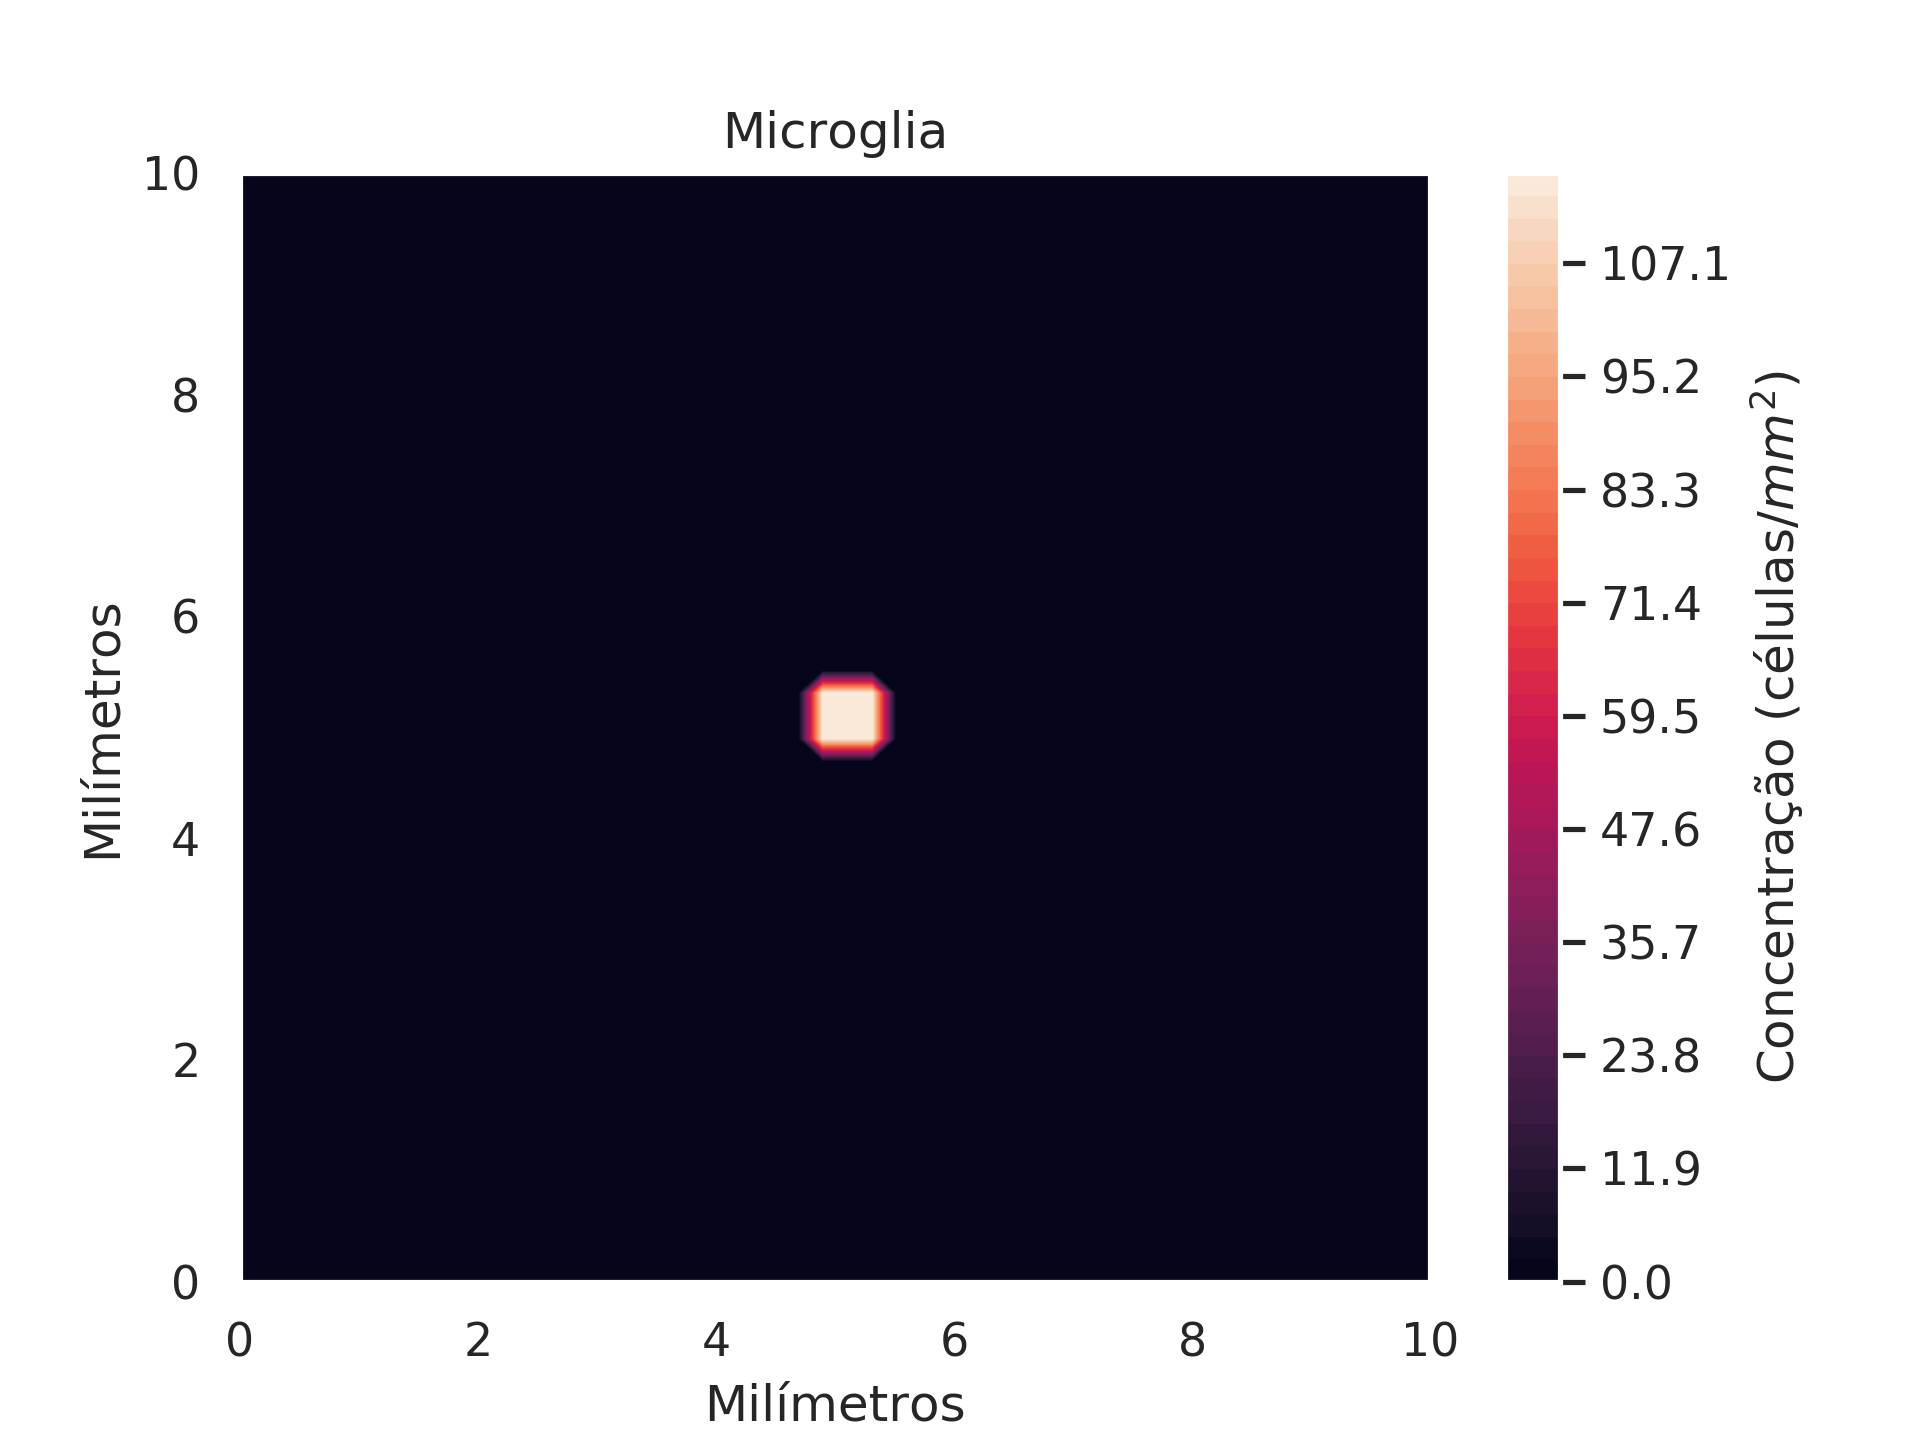
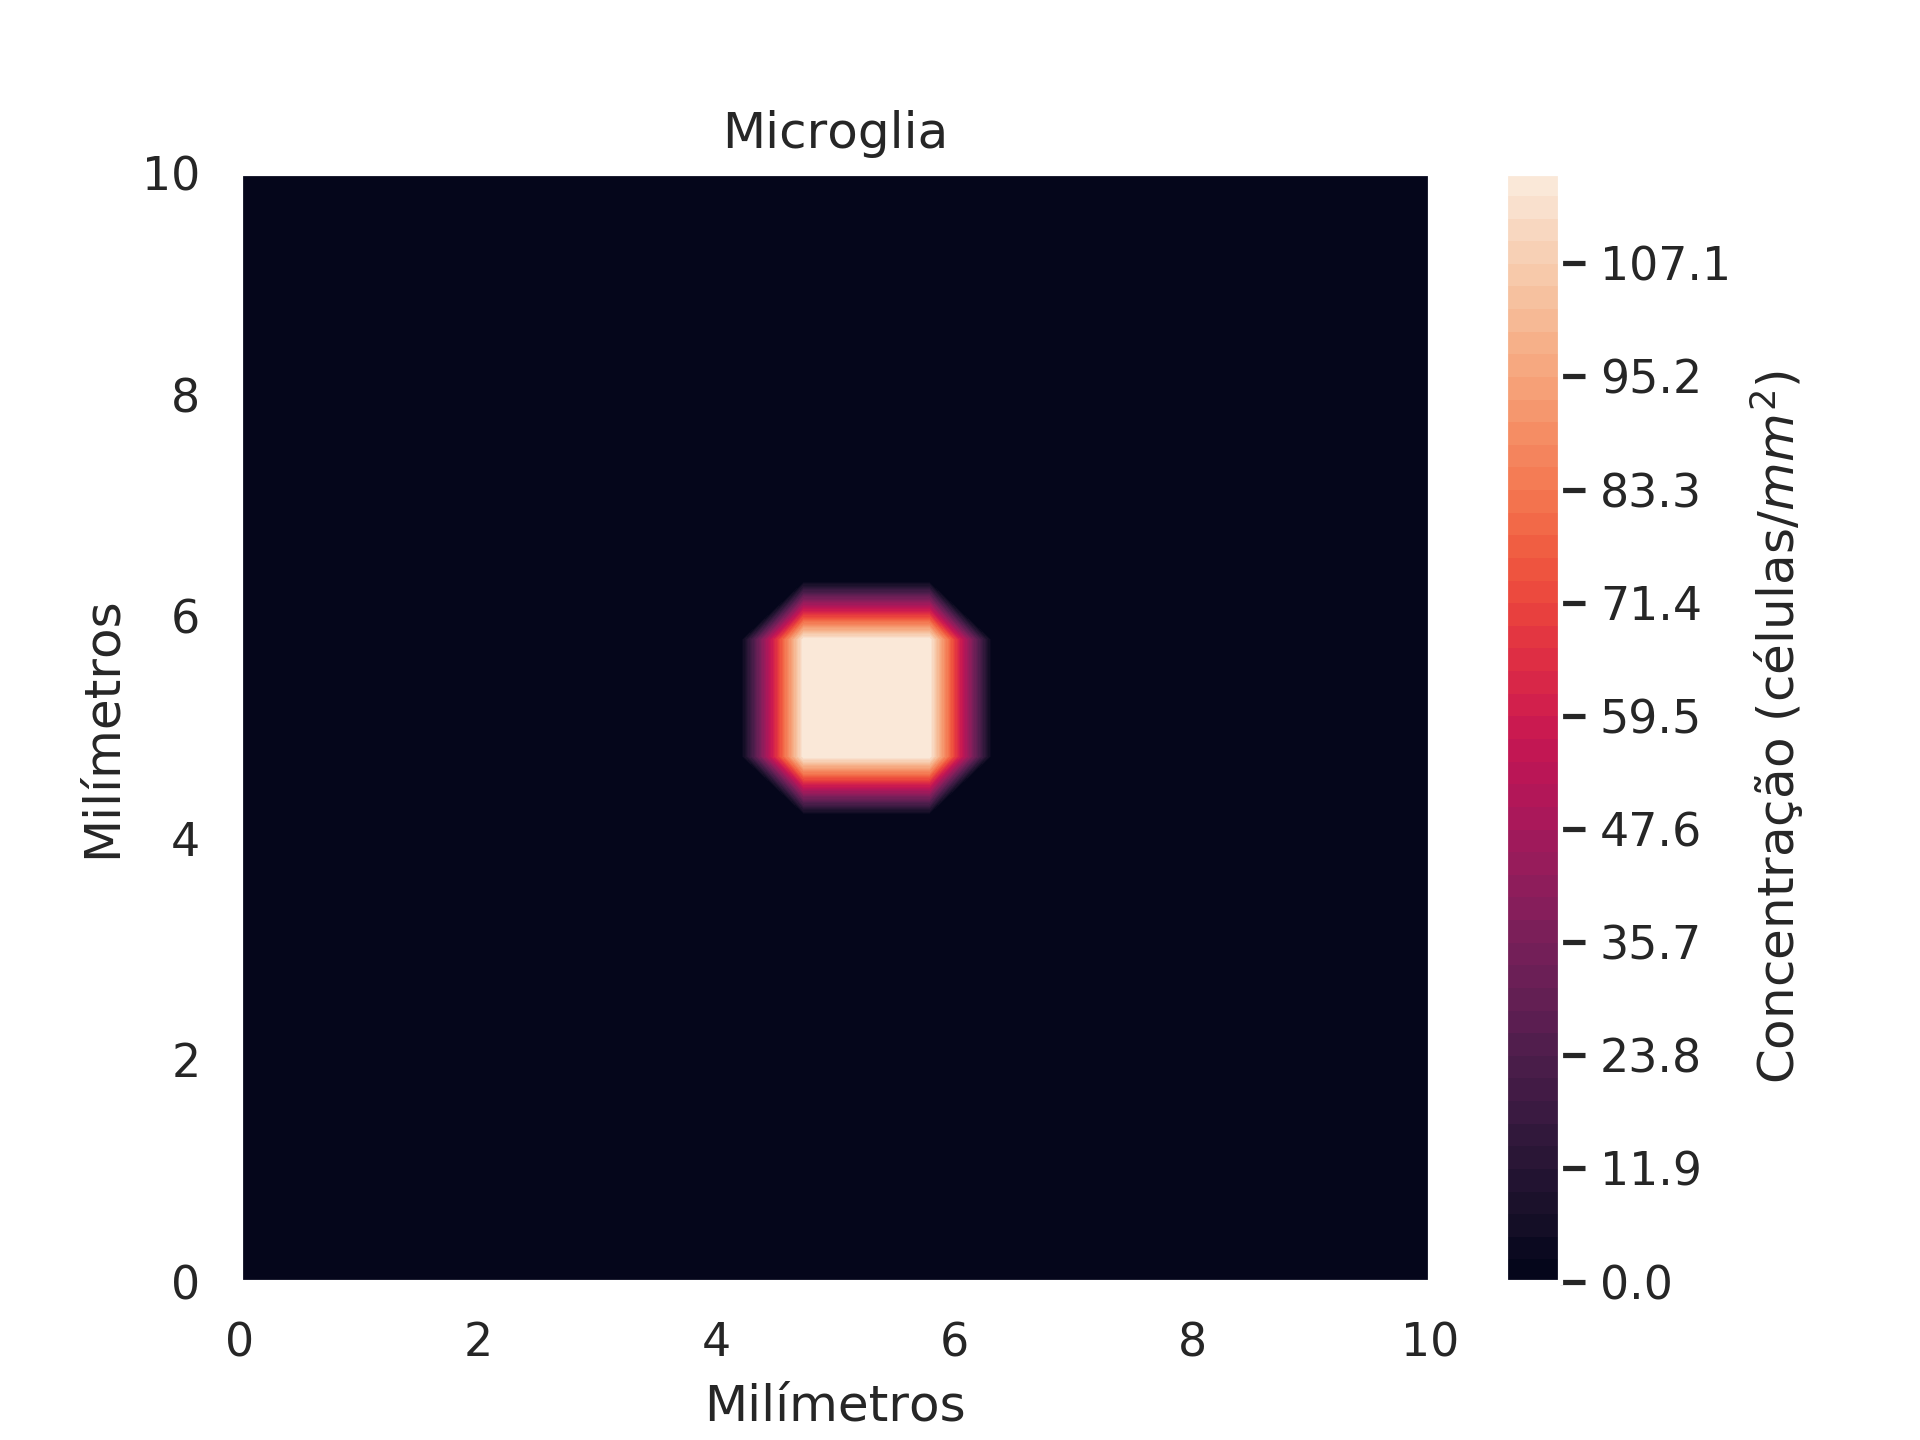
Mudanca nos parametros de homeostase linfonodo

Changed region(s): [[0.375, 0.4062, 0.5312, 0.5625]]

diff --git a/src/modelo_populações_completo.py b/src/modelo_populações_completo.py
@@ -16,7 +16,7 @@ T_final = 7*4# Dia
 h_t = 0.0002
 
 L = 10  # Comprimento da malha
-h_x = 0.2
+h_x = 0.5
 
 t = np.linspace(0, T_final, int(T_final/h_t))
 x = np.linspace(0, L, int(L/h_x))
@@ -72,7 +72,7 @@ def checkBVeLV():
     plt.show()
     plt.clf()
 
-# checkBVeLV()
+checkBVeLV()
 
 def calculaQuimiotaxia(ponto_posterior_j, ponto_anterior_j, ponto_posterior_i, ponto_anterior_i, ponto_atual, valor_medio, gradiente_odc_i, gradiente_odc_j):
     gradiente_pop_i = 0
@@ -110,7 +110,7 @@ olide_anterior = np.zeros((int(L/h_x), int(L/h_x)))
 anticorpo_anterior = np.zeros((int(L/h_x), int(L/h_x)))
 
 # Dendríticas convencionais
-dc_media = 39 #Valeria testa
+dc_media = 33 #Valeria testa
 dendritica_conv_anterior = np.zeros((int(L/h_x), int(L/h_x)))
 
 # Dendríticas ativadas
@@ -126,11 +126,13 @@ dendritica_conv_atual = np.zeros((int(L/h_x), int(L/h_x)))
 dendritica_ativ_atual = np.zeros((int(L/h_x), int(L/h_x)))
 
 # Modelo linfonodo
-estable_B = 8.4*10**-4
+estable_B = 2.48
+estable_T_c = 7
+estable_T_h = 4.3
 linfonodo_eqs = np.zeros(5)
 linfonodo_eqs[0]= 0    # Dendritic cells
-linfonodo_eqs[1]= 0.2  # Cytotoxic T cells
-linfonodo_eqs[2]= 0.4  # Helper T cells
+linfonodo_eqs[1]= estable_T_c  # Cytotoxic T cells
+linfonodo_eqs[2]= estable_T_h  # Helper T cells
 linfonodo_eqs[3]= estable_B    # B cells
 linfonodo_eqs[4]= 0    # Antibodies
 
@@ -212,10 +214,10 @@ parameters = {
     "rho_T": 2,
     "rho_Tc": 2,
     "rho_B": 16,
-    "rho_F": 5.1*10**4,
-    "estable_T_h": 8.4*10**-3,
+    "rho_F": 5.1*10,
+    "estable_T_h": estable_T_h,
     "estable_B": estable_B,
-    "estable_T_c": 8.4*10**-3,
+    "estable_T_c": estable_T_c,
     "DendriticasTecido": DendriticasTecido,
     "AnticorposTecido": AnticorposTecido,
     "TcitotoxicaTecido": TcitotoxicaTecido,
